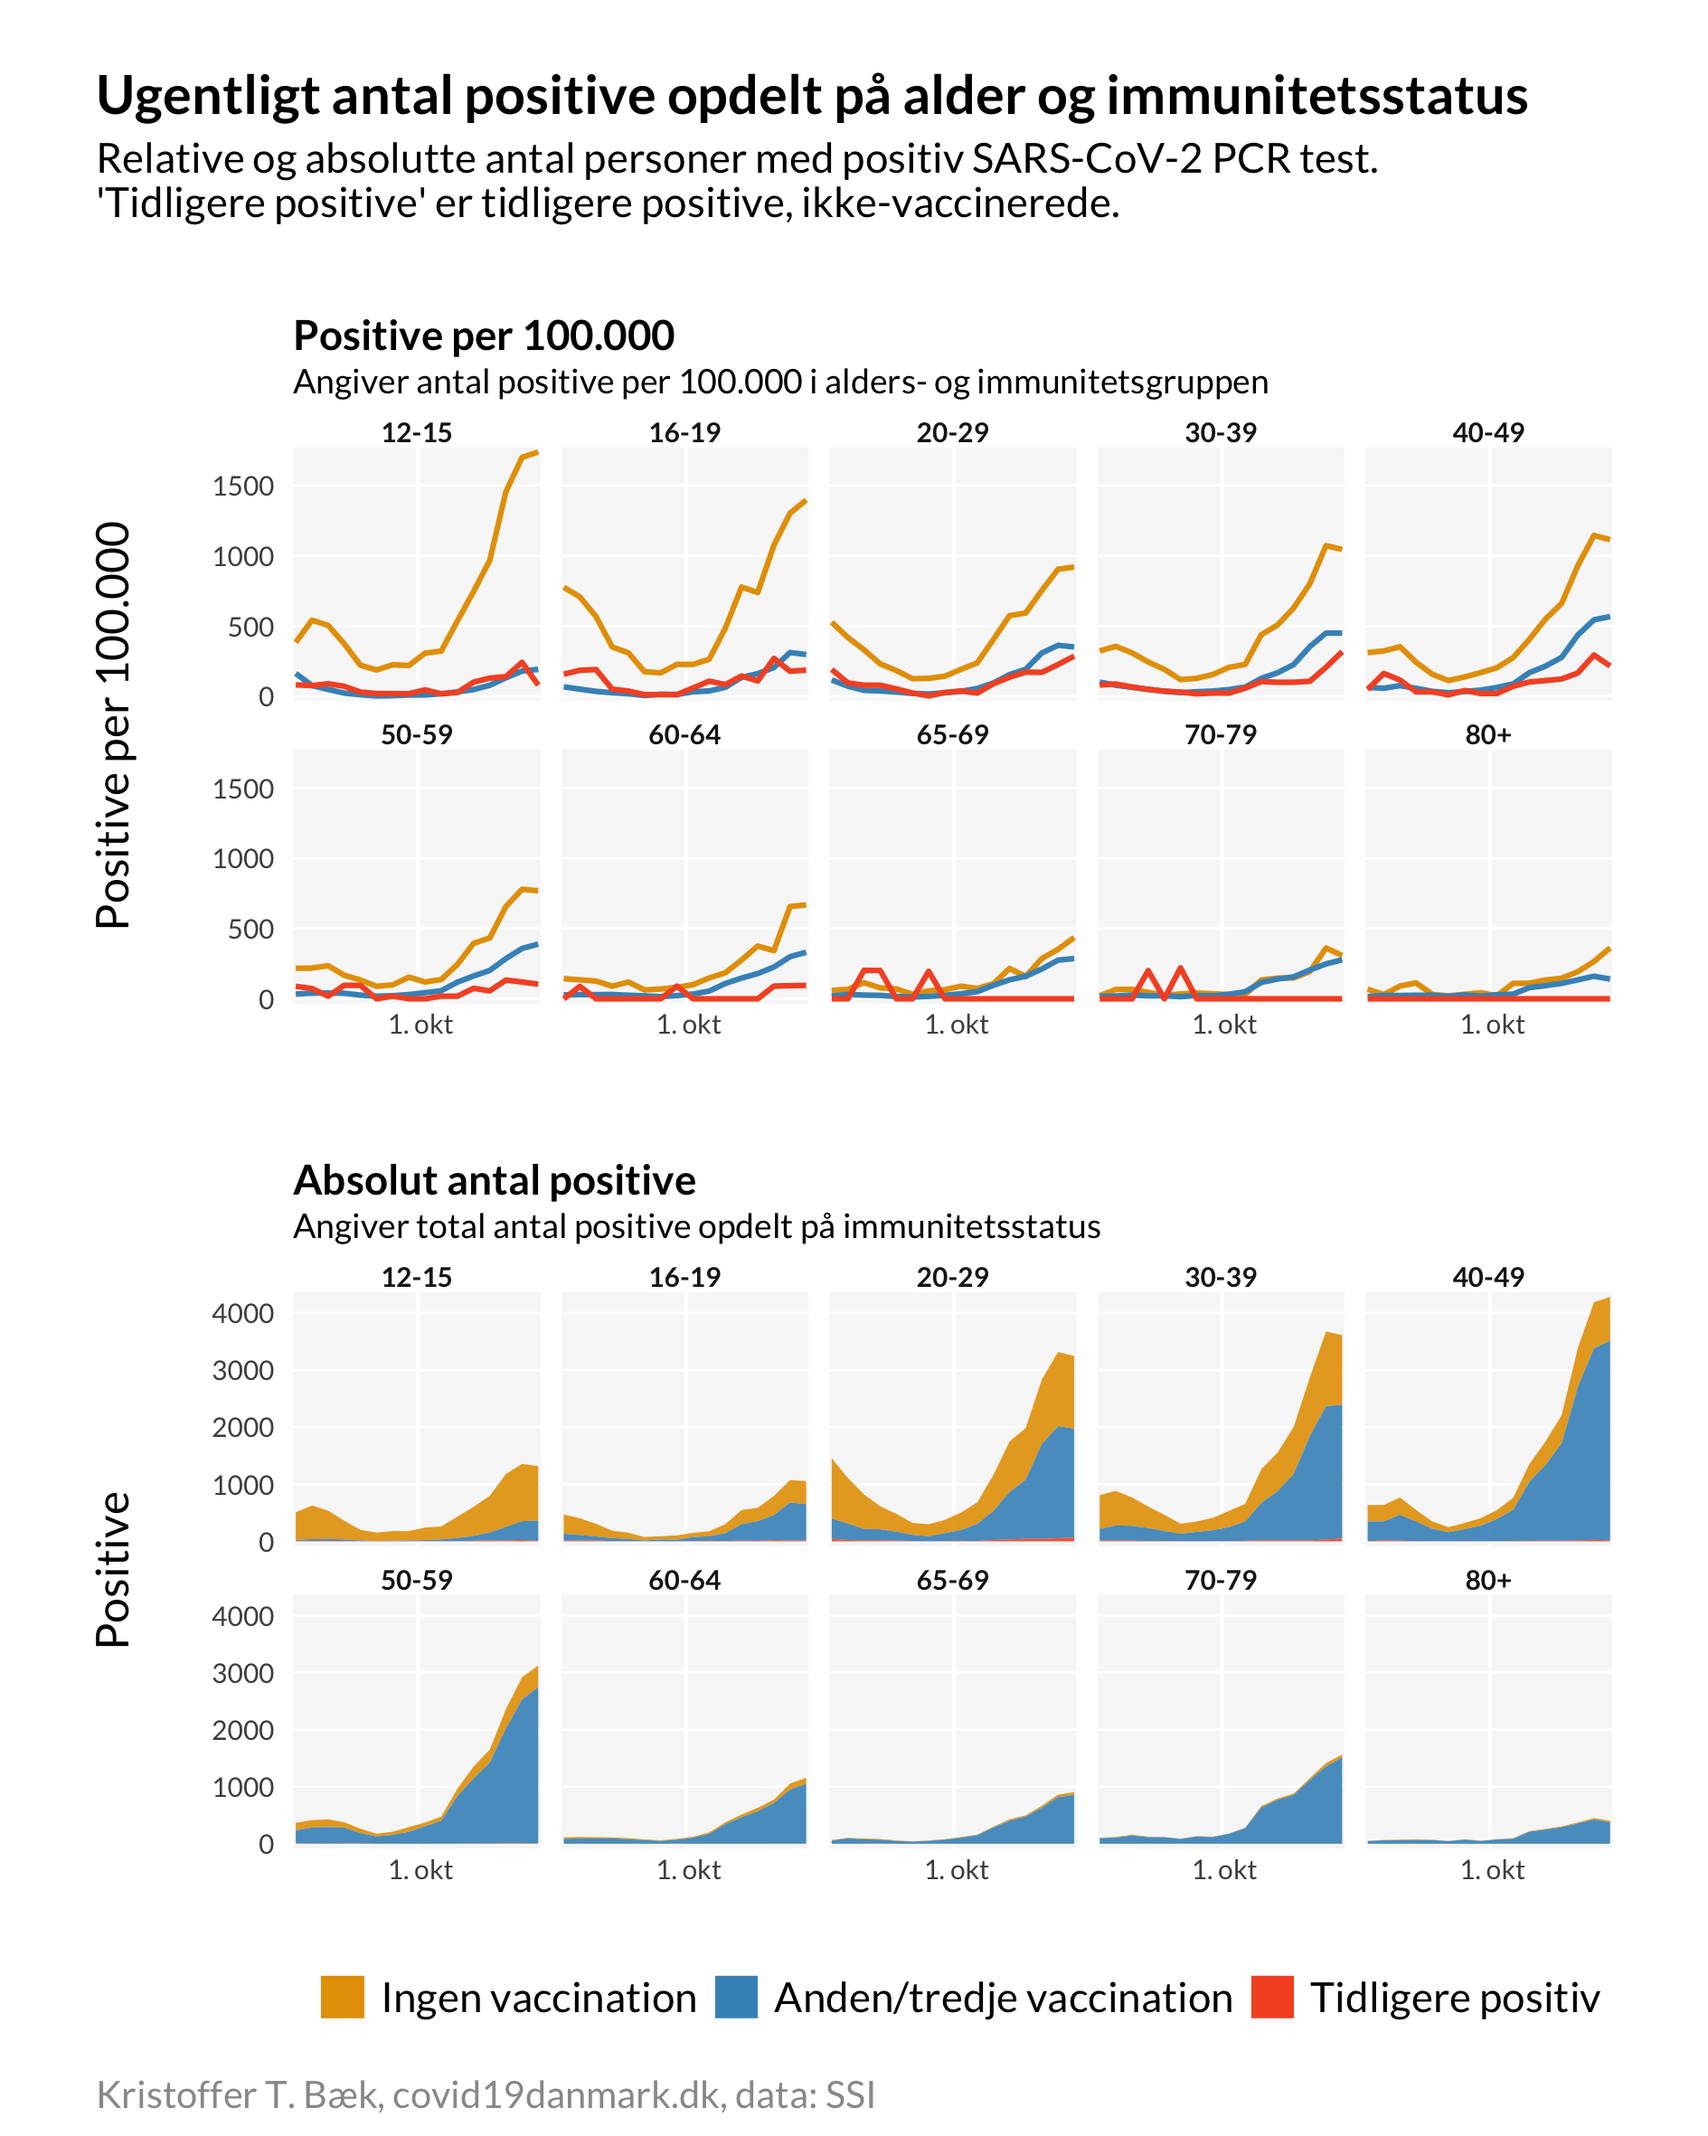
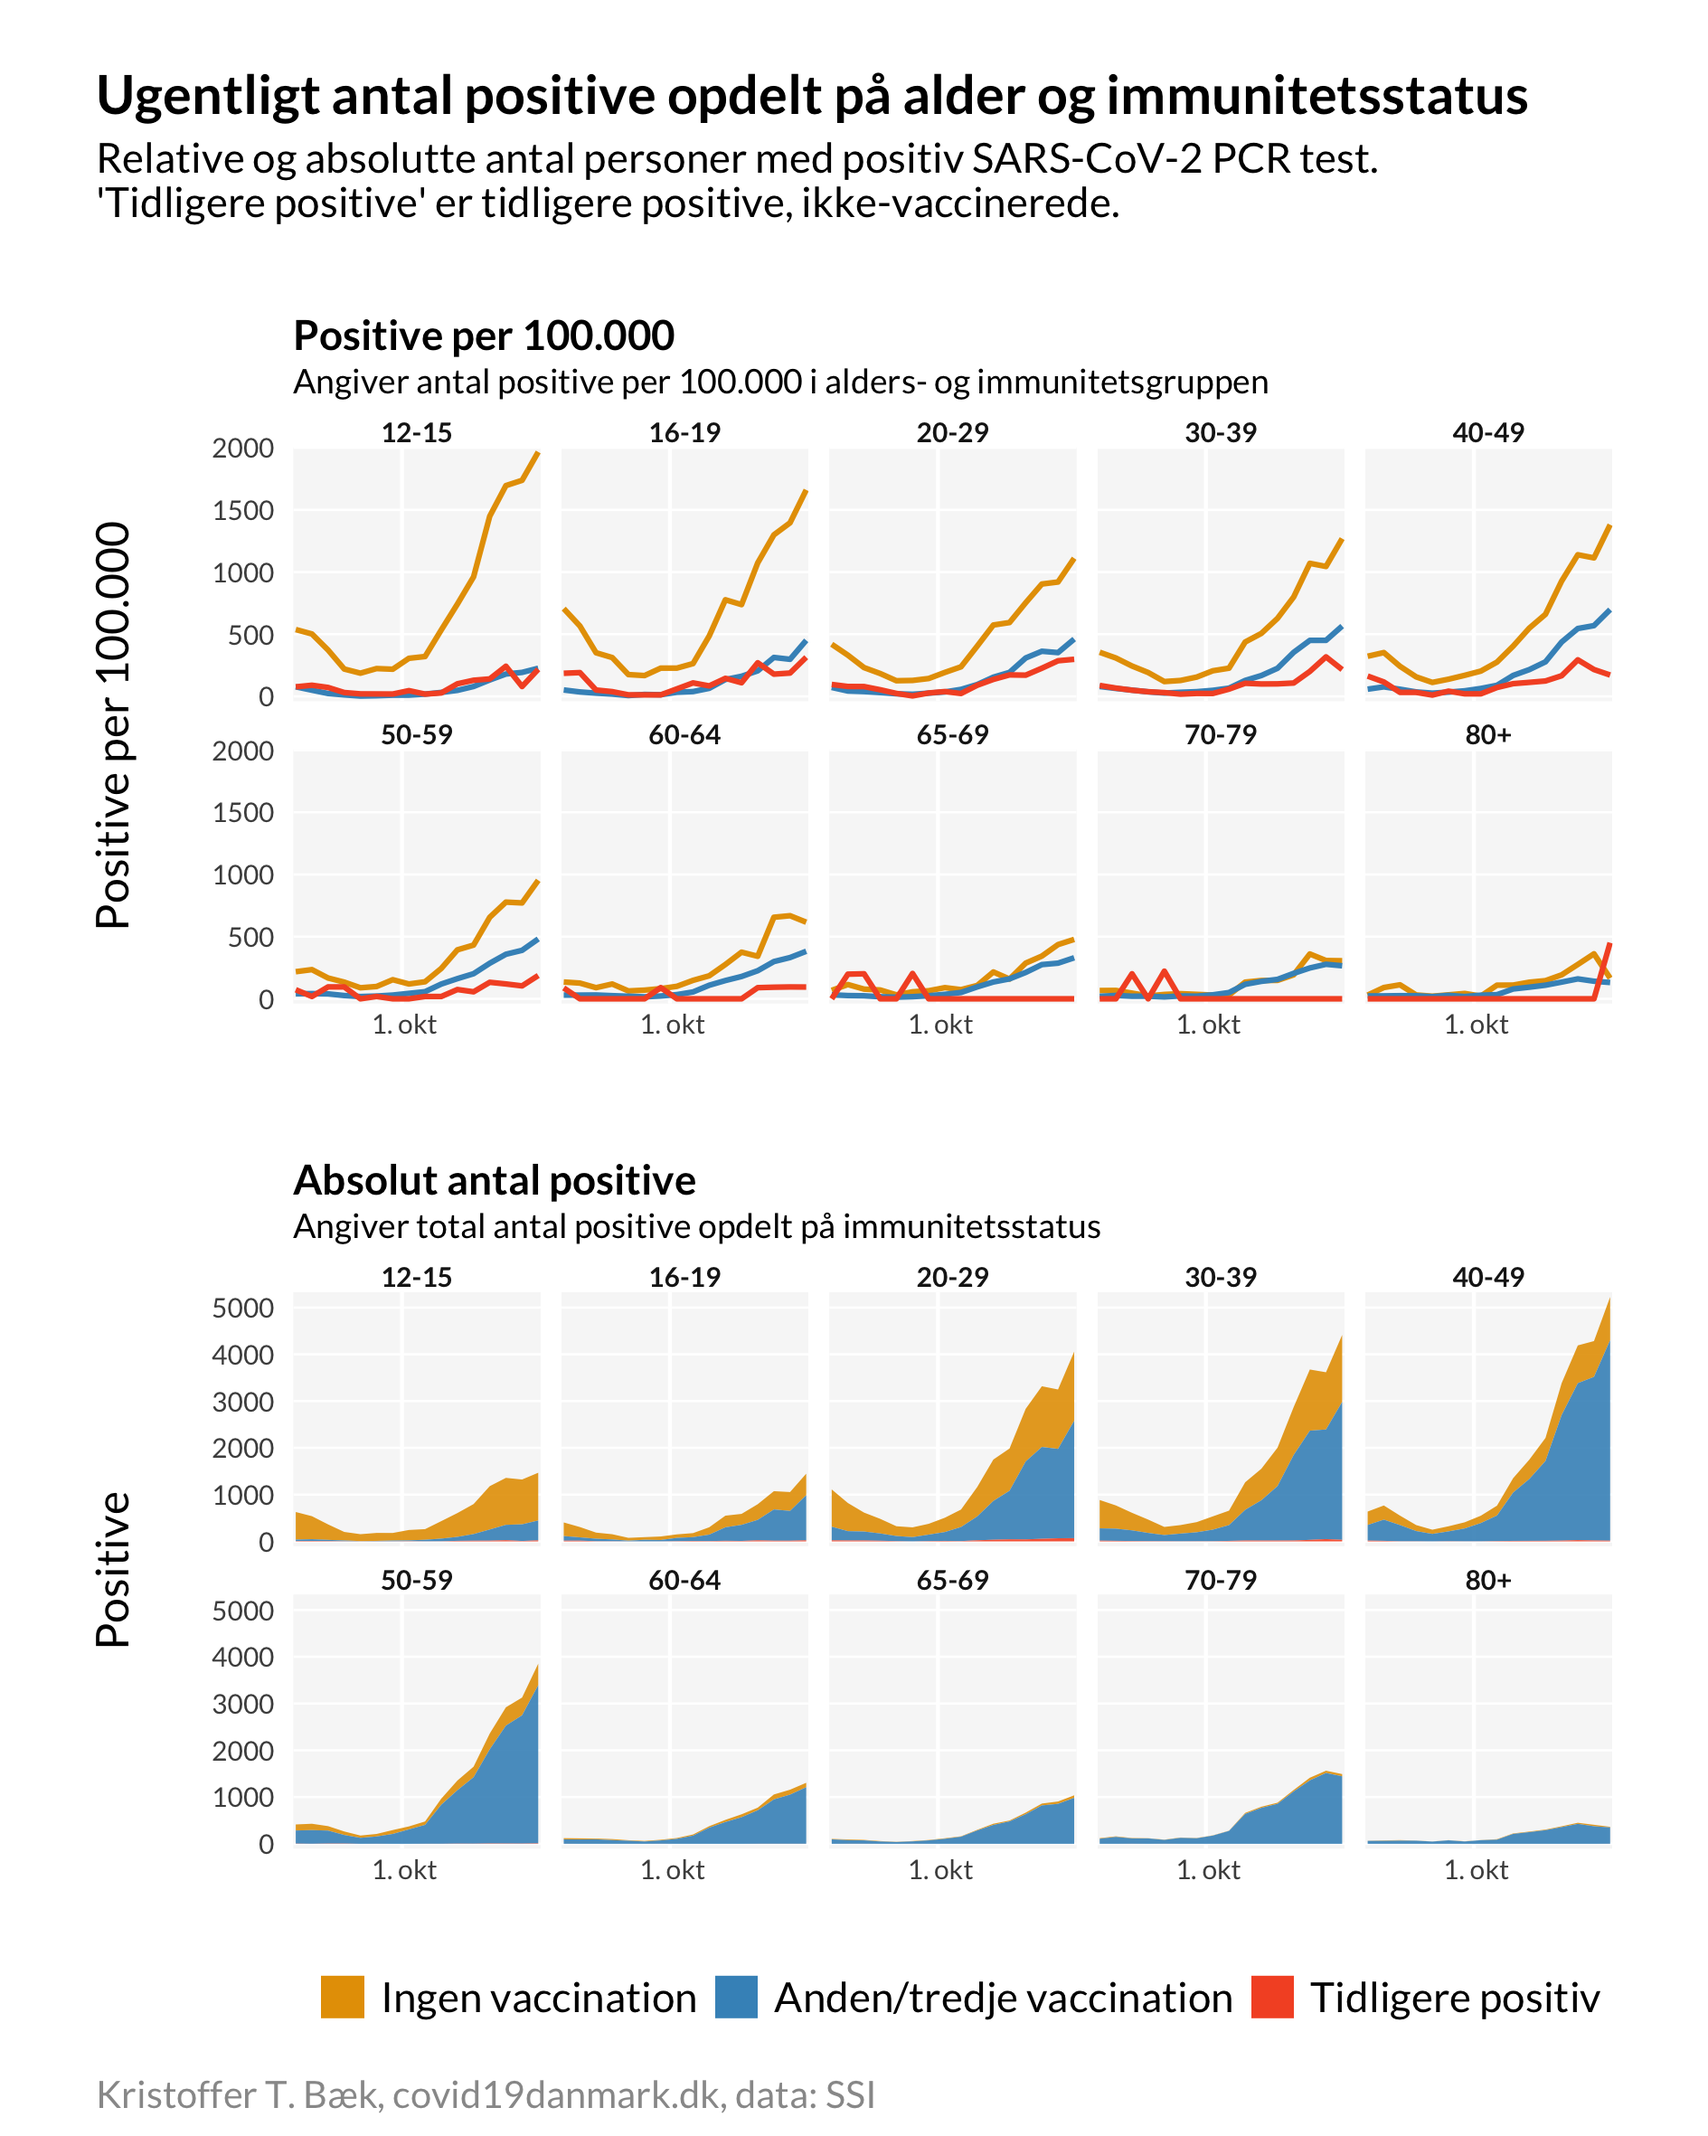
Update plots

diff --git a/index.md b/index.md
@@ -147,9 +147,17 @@ De to nederste plot viser køns-og aldersfordeling for vaccinerede indtil nu som
 
 ## Gennembrudsinfektioner
 
+## Smittede opdelt på vaccinations- og tidligere smittestatus
+
+Plottet viser det ugentlige antal positive per 100.000 (i alders- og immunitetsgruppen) og i absolutte tal. Anden/tredje vaccination angiver alle som har fået mindst to doser. Data for modtagere af én dosis (første vaccination) er udeladt.
+
+*Tidligere positive* angiver ikke-vaccinerede personer med en tidligere positiv PCR test der er mere end 60 dage gammel. *Ingen vaccination* og *Anden/tredje vaccination* angiver personer der ikke tidligere har testet positiv. Personer der er vaccineret *og* tidligere smittede udgør kun et lille antal og er ikke medtaget. For aldersgrupper 60+ er tidligere positive ikke medtaget, da antal nye positive (repositive) i disse grupper er tæt på nul.
+
+![](/figures/bt_cases_age_time_2.png)
+
 ### Indlagte og døde opdelt på vaccinationsstatus
 
-Plottene viser det ugentlige antal indlæggelser og døde per 100.000 (i alders- og vaccinationsgruppen) og i absolutte tal. Anden/tredje vaccination angiver alle som har fået mindst to doser. Data for modtagere af én dosis (første vaccination) er udeladt. 
+Plottene viser det ugentlige antal indlæggelser og døde per 100.000 (i alders- og vaccinationsgruppen) og i absolutte tal. Anden/tredje vaccination angiver alle som har fået mindst to doser. Data for modtagere af én dosis (første vaccination) er udeladt.
 
 ![](/figures/bt_admit_age_time.png)
 
